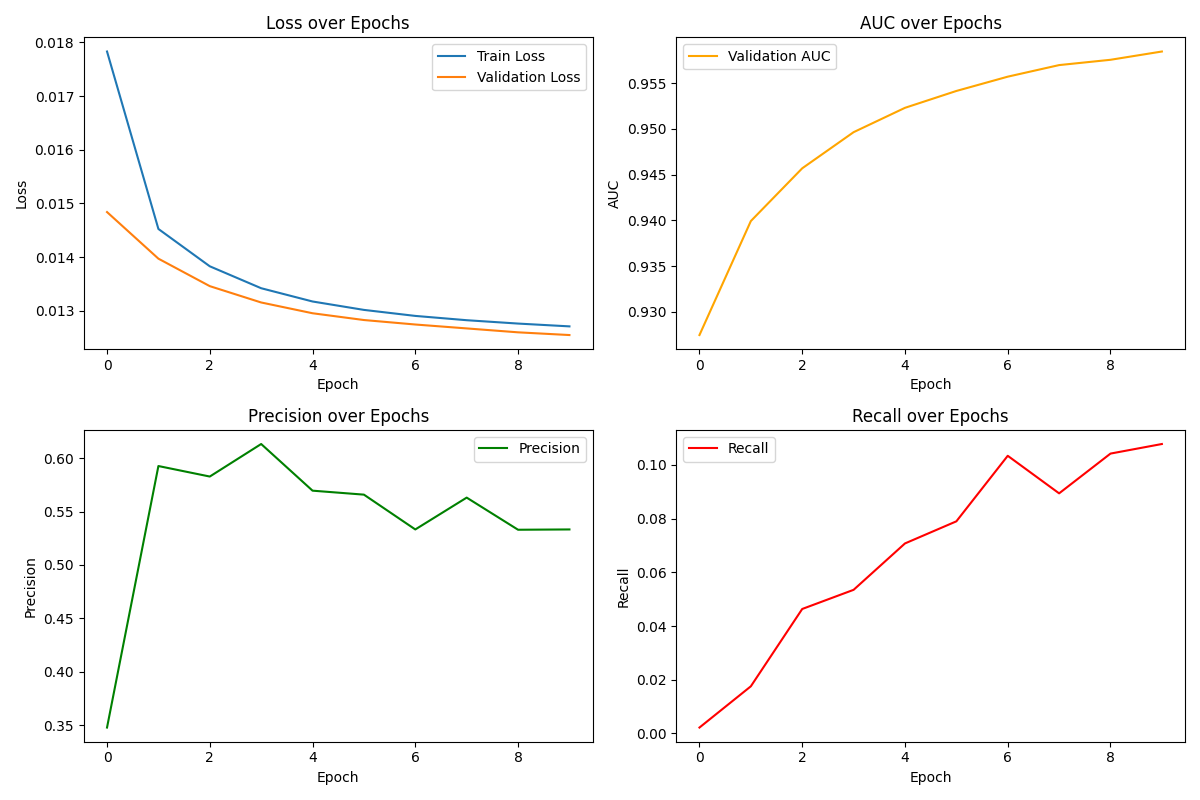
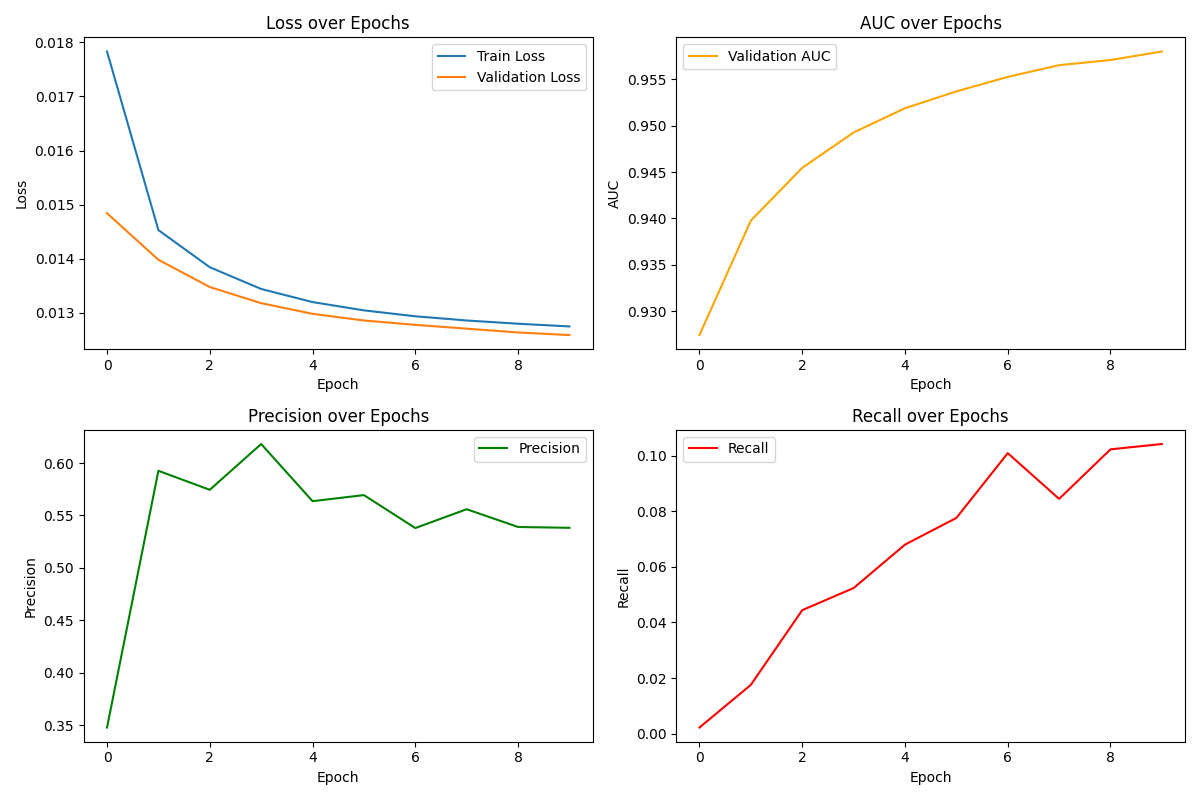
Add L2-regularization to optimizers

diff --git a/Models/FM.py b/Models/FM.py
@@ -32,7 +32,7 @@ def train_and_evaluate(X_train, y_train, X_val, y_val, epochs, lr, save_dir, grp
     input_dim = X_train.shape[1]
     model = FactorizationMachineModel(input_dim, k).to(device)
     criterion = nn.BCELoss()
-    optimizer = optim.SGD(model.parameters(), lr=lr)
+    optimizer = optim.SGD(model.parameters(), lr=lr, weight_decay=1e-4)
 
     train_dataset = TensorDataset(
         torch.tensor(X_train.values, dtype=torch.float32),
@@ -125,8 +125,8 @@ if __name__ == "__main__":
     val_data = pd.read_csv("./Data/processed/val.csv")
     print("Data loaded, start training...")
 
-    exp_info = f"batch{args.batch}_epoch{args.epoch}_lr{args.lr}_k{args.k}"
-    session_name = f"{args.model_name}_{exp_info}"
+    exp_info = f"{utils.get_timestamp}_batch{args.batch}_epoch{args.epoch}_lr{args.lr}_k{args.k}"
+    session_name = f"{exp_info}_{args.model_name}"
 
     #train_and_evaluate(X_train, y_train, X_val, y_val, epochs, lr, save_dir, grp_name, batch_size, k, device, session_name):
     def train_model_for_group(train_group, val_group, group_name):

diff --git a/Models/WD.py b/Models/WD.py
@@ -41,7 +41,7 @@ def train_and_evaluate(X_train, y_train, X_val, y_val, epochs, lr, save_dir, grp
     deep_hidden_units = [input_dim, 64, 32]
     model = WideAndDeep(input_dim_wide=input_dim, input_dim_deep=input_dim, deep_hidden_units=deep_hidden_units).to(device)
     criterion = nn.BCELoss()
-    optimizer = optim.Adam(model.parameters(), lr=lr)
+    optimizer = optim.Adam(model.parameters(), lr=lr, weight_decay=1e-4)
 
     train_dataset = TensorDataset(
         torch.tensor(X_train.values, dtype=torch.float32),
@@ -130,8 +130,8 @@ if __name__ == "__main__":
     val_data = pd.read_csv("./Data/processed/val.csv")
     print("Data loaded, start training...")
 
-    exp_info = f"batch{args.batch}_epoch{args.epoch}_lr{args.lr}"
-    session_name = f"{args.model_name}_{exp_info}"
+    exp_info = f"{utils.get_timestamp}_batch{args.batch}_epoch{args.epoch}_lr{args.lr}"
+    session_name = f"{exp_info}_{args.model_name}"
 
     def train_model_for_group(train_group, val_group, group_name):
         print(f"Training model for {group_name} group...")

diff --git a/Models/FFM.py b/Models/FFM.py
@@ -41,7 +41,7 @@ def train_and_evaluate(X_train, y_train, X_val, y_val, field_indices, epochs, lr
     num_fields = len(np.unique(field_indices))  # Number of unique fields
     model = FieldAwareFactorizationMachineModel(num_fields, input_dim, k).to(device)
     criterion = nn.BCELoss()
-    optimizer = optim.SGD(model.parameters(), lr=lr)
+    optimizer = optim.SGD(model.parameters(), lr=lr, weight_decay=1e-4)
 
     train_dataset = TensorDataset(
         torch.tensor(X_train.values, dtype=torch.float32),
@@ -129,8 +129,8 @@ if __name__ == "__main__":
     val_data = pd.read_csv("./Data/processed/val.csv")
     print("Data loaded, start training...")
 
-    exp_info = f"batch_{args.batch}_epoch_{args.epoch}_lr_{args.lr}_k_{args.k}"
-    session_name = f"{args.model_name}_{exp_info}"
+    exp_info = f"{utils.get_timestamp}_batch{args.batch}_epoch{args.epoch}_lr{args.lr}_k{args.k}"
+    session_name = f"{exp_info}_{args.model_name}"
 
     # Assign fields manually for this example
     field_indices = utils.get_field_indices(train_data)

diff --git a/Models/DIN.py b/Models/DIN.py
@@ -85,7 +85,7 @@ def train_and_evaluate(X_train, y_train, X_val, y_val, item_col, seq_cols, embed
     model = DeepInterestNetwork(input_dim, embedding_dim, deep_hidden_units).to(device)
     print(model)
     criterion = nn.BCELoss()
-    optimizer = optim.Adam(model.parameters(), lr=lr)
+    optimizer = optim.Adam(model.parameters(), lr=lr, weight_decay=1e-4)
 
     # debug
     # print(f"Unique values in item_col (train): {X_train[item_col].nunique()}")
@@ -191,8 +191,9 @@ if __name__ == "__main__":
     val_data = pd.read_csv("./Data/processed/val.csv")
     print("Data loaded, start training...")
 
-    exp_info = f"batch{args.batch}_epoch{args.epoch}_lr{args.lr}_emb{embedding_dim}"
-    session_name = f"{args.model_name}_{exp_info}"
+    exp_info = f"{utils.get_timestamp}_batch{args.batch}_epoch{args.epoch}_lr{args.lr}_emb{embedding_dim}"
+    session_name = f"{exp_info}_{args.model_name}"
+    
 
     def train_model_for_group(train_group, val_group, group_name):
         print(f"Training model for {group_name} group...")

diff --git a/Models/DCN.py b/Models/DCN.py
@@ -70,7 +70,7 @@ def train_and_evaluate(X_train, y_train, X_val, y_val, deep_hidden_units, cross_
     model = DeepCrossNetwork(input_dim, deep_hidden_units, cross_num_layers).to(device)
     print(model)
     criterion = nn.BCELoss()
-    optimizer = optim.Adam(model.parameters(), lr=lr)
+    optimizer = optim.Adam(model.parameters(), lr=lr, weight_decay=1e-4)
 
     # Prepare data loaders
     train_dataset = TensorDataset(
@@ -167,8 +167,8 @@ if __name__ == "__main__":
     print("Data loaded, start training...")
 
     # Prepare session name
-    exp_info = f"batch{args.batch}_epoch{args.epoch}_lr{args.lr}_cross{args.cross_layers}"
-    session_name = f"{args.model_name}_{exp_info}"
+    exp_info = f"{utils.get_timestamp}_batch{args.batch}_epoch{args.epoch}_lr{args.lr}_cross{args.cross_layers}"
+    session_name = f"{exp_info}_{args.model_name}"
 
     def train_model_for_group(train_group, val_group, group_name):
         print(f"Training model for {group_name} group...")

diff --git a/Models/LR.py b/Models/LR.py
@@ -25,7 +25,7 @@ def train_and_evaluate(X_train, y_train, X_val, y_val, epochs, lr, save_dir, grp
     input_dim = X_train.shape[1]
     model = LogisticRegressionModel(input_dim).to(device)  # Move model to the correct device
     criterion = nn.BCELoss()
-    optimizer = optim.SGD(model.parameters(), lr=lr)
+    optimizer = optim.SGD(model.parameters(), lr=lr, weight_decay=1e-2)
 
     # Convert data to PyTorch tensors
     train_dataset = TensorDataset(
@@ -138,8 +138,8 @@ if __name__ == "__main__":
     val_data = pd.read_csv("./Data/processed/val.csv")
     print("Data Loaded, start training...")
 
-    exp_info = f"batch{args.batch}_epoch{args.epoch}_lr{args.lr}"
-    session_name = f"{args.model_name}_{exp_info}"
+    exp_info = f"{utils.get_timestamp}_batch{args.batch}_epoch{args.epoch}_lr{args.lr}"
+    session_name = f"{exp_info}_{args.model_name}"
     
 
     def train_model_for_group(train_group, val_group, group_name):

diff --git a/Models/DFM.py b/Models/DFM.py
@@ -78,7 +78,7 @@ def train_and_evaluate(X_train, y_train, X_val, y_val, field_indices, hidden_uni
     print(model)
     
     criterion = nn.BCELoss()
-    optimizer = optim.Adam(model.parameters(), lr=lr)
+    optimizer = optim.Adam(model.parameters(), lr=lr, weight_decay=1e-4)
 
     # Prepare data loaders
     train_dataset = TensorDataset(
@@ -177,8 +177,8 @@ if __name__ == "__main__":
     field_indices = utils.get_field_indices(train_data)
 
     # Prepare session name
-    exp_info = f"batch{args.batch}_epoch{args.epoch}_lr{args.lr}"
-    session_name = f"{args.model_name}_{exp_info}"
+    exp_info = f"{utils.get_timestamp}_batch{args.batch}_epoch{args.epoch}_lr{args.lr}"
+    session_name = f"{exp_info}_{args.model_name}"
 
     def train_model_for_group(train_group, val_group, group_name):
         print(f"Training model for {group_name} group...")

diff --git a/Models/utils.py b/Models/utils.py
@@ -7,7 +7,7 @@ import matplotlib.pyplot as plt
 
 
 def get_timestamp():
-    return datetime.datetime.now().strftime("%Y_%m_%d_%H_%M_%S")
+    return datetime.datetime.now().strftime("%Y%m%d_%H%M%S")
 
 
 def set_seed(seed):
